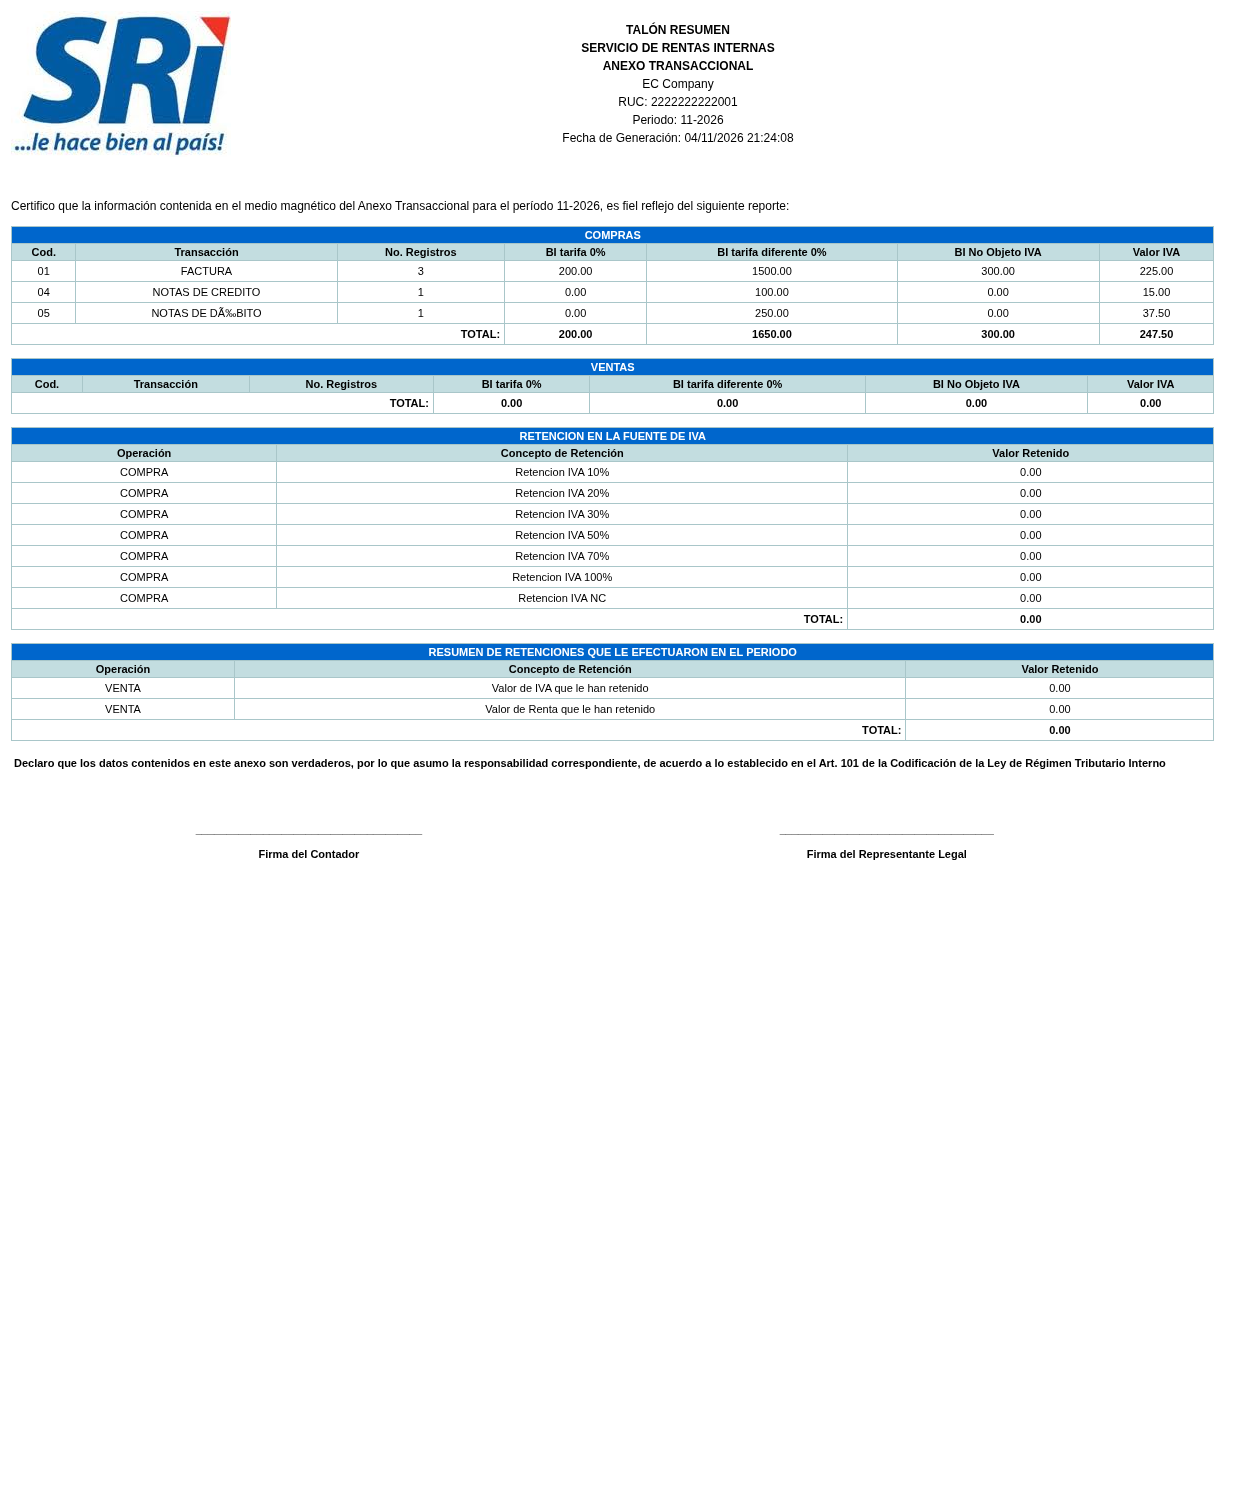
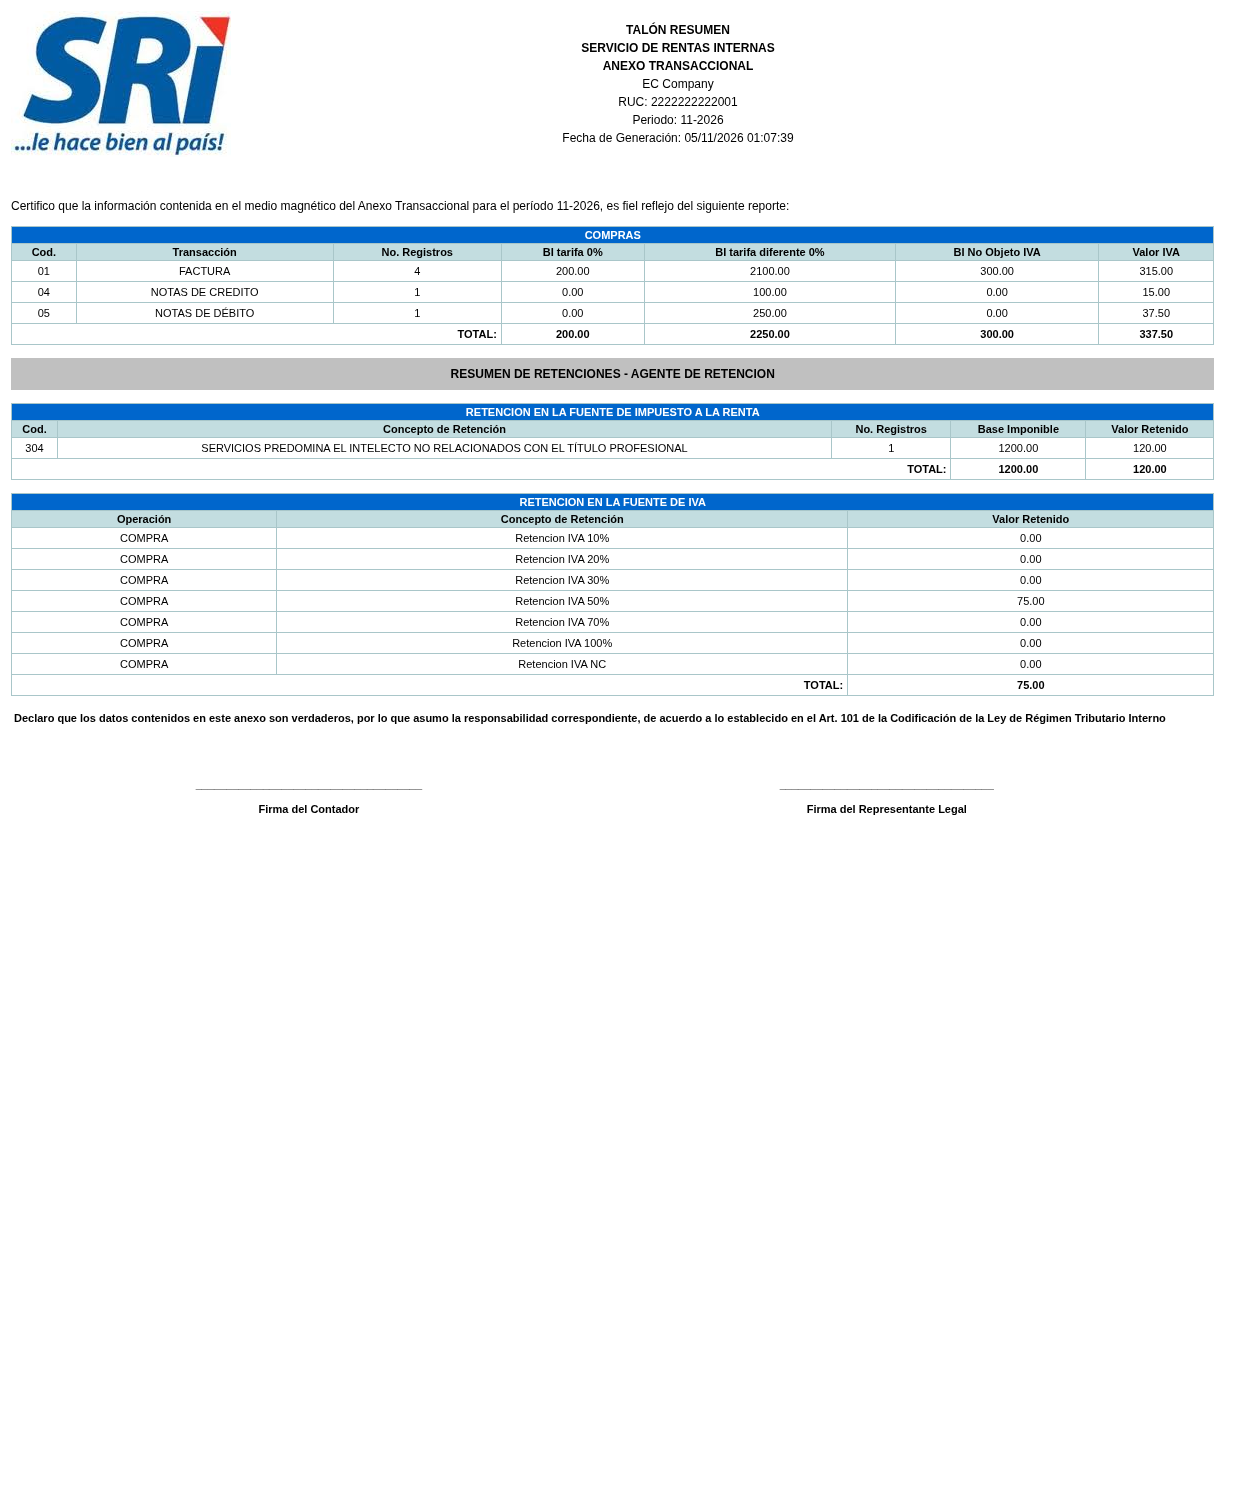
docs(l10n_ec_ats): refresh the engine evidence with withholdings and suppliers
The talón in `USAGE` described a month of five purchases. The demo month now also
carries a foreign supplier on a passport, a credit note, a debit note, one
invoice with ICE, and one invoice with a withholding performed on it — so the
evidence is refreshed with what the SRI's own engine says about that month:

    01 Factura          4   200.00  2100.00  300.00  315.00
    04 Nota de crédito  1     0.00   100.00    0.00   15.00
    05 Nota de débito   1     0.00   250.00    0.00   37.50
    Total               6   200.00  2450.00  300.00  367.50

and the withholdings in the same summary — renta `304` on a base of 1200.00
retaining **120.00**, and IVA at `50%` retaining **75.00** — which are the same
figures the file carries in `air/detalleAir` and `valRetServ50`, and the reason
the row now also carries `estabRetencion1`…`fechaEmiRet1`.

The section states both limits of that pass: the engine accepts the file while
the module still warns on every 15% line because `Tabla 12` ends at the 12% era,
and the submission leaves out the `ventas` block because the engine cannot
summarise a physical-emission sale at all. Neither is worked around: the module
keeps emitting `F` and both defects are recorded in `ROADMAP.md`.

Changed region(s): [[0.0, 0.1533, 0.9984, 0.5827], [0.312, 0.1533, 0.3432, 0.184]]

diff --git a/l10n_ec_ats/static/description/index.html b/l10n_ec_ats/static/description/index.html
@@ -1476,10 +1476,11 @@ fields plus:</p>
 <h3><a class="toc-backref" href="#toc-entry-32">Evidence: the SRI’s own engine accepts the file</a></h3>
 <p>Grammar is the weakest of the three layers. The strongest evidence
 available without a DIMM installation is the SRI’s own validator: this
-month’s <tt class="docutils literal">AT112026.xml</tt> — five purchase documents, one of them a credit
-note and one a debit note, one carrying ICE — was submitted to the SRI
-ATS engine and came back <strong>accepted</strong>, with the engine’s own summary of
-the period:</p>
+month’s <tt class="docutils literal">AT112026.xml</tt> — four purchase invoices, one of them a foreign
+supplier on a passport, a credit note, a debit note, one invoice
+carrying ICE, and one invoice carrying a withholding performed on it —
+was submitted to the SRI ATS engine and came back <strong>accepted</strong>, with the
+engine’s own summary of the period:</p>
 <table border="1" class="docutils">
 <colgroup>
 <col width="15%" />
@@ -1504,11 +1505,11 @@ objeto</th>
 <tbody valign="top">
 <tr><td>01
 Factura</td>
-<td>3</td>
+<td>4</td>
 <td>200.00</td>
-<td>1500.00</td>
+<td>2100.00</td>
 <td>300.00</td>
-<td>225.00</td>
+<td>315.00</td>
 </tr>
 <tr><td>04 Nota
 de
@@ -1528,27 +1529,76 @@ de débito</td>
 <td>37.50</td>
 </tr>
 <tr><td><strong>Total</strong></td>
-<td><strong>5</strong></td>
+<td><strong>6</strong></td>
 <td><strong>200.00</strong></td>
-<td><strong>1650.00</strong></td>
+<td><strong>2450.00</strong></td>
 <td><strong>300.00</strong></td>
-<td><strong>247.50</strong></td>
+<td><strong>367.50</strong></td>
+</tr>
+</tbody>
+</table>
+<p>And, in the same summary, the withholdings the module reports — the part
+that makes the row identifiable rather than just a pair of amounts:</p>
+<table border="1" class="docutils">
+<colgroup>
+<col width="17%" />
+<col width="35%" />
+<col width="17%" />
+<col width="14%" />
+<col width="18%" />
+</colgroup>
+<thead valign="bottom">
+<tr><th class="head">Retención</th>
+<th class="head">Concepto</th>
+<th class="head">Registros</th>
+<th class="head">Base</th>
+<th class="head">Retenido</th>
+</tr>
+</thead>
+<tbody valign="top">
+<tr><td>Renta</td>
+<td><tt class="docutils literal">304</tt> servicios
+donde predomina el
+intelecto</td>
+<td>1</td>
+<td>1200.00</td>
+<td><strong>120.00</strong></td>
+</tr>
+<tr><td>IVA</td>
+<td><tt class="docutils literal">50%</tt></td>
+<td>—</td>
+<td>—</td>
+<td><strong>75.00</strong></td>
 </tr>
 </tbody>
 </table>
 <p><img alt="DIMM talón of a generated month" src="https://raw.githubusercontent.com/OCA/l10n-ecuador/19.0/l10n_ec_ats/static/description/ats-dimm-talon.png" /></p>
-<p>That table is the point of the three layers: those bases are what the
-collector resolved per <tt class="docutils literal">Tabla 12</tt>, what the builder wrote in
-<tt class="docutils literal">ats.xsd</tt> order, and what the engine read back. The engine is not
-shipped with this module — it is an independent service — so this is
-evidence about the file, not a feature of the addon.
-<tt class="docutils literal">readme/CONFIGURE.md</tt> does not mention it for the same reason: the
-addon does not depend on it.</p>
-<p>Note what the same run also proves <strong>negative</strong>: the engine accepts the
-file while the module still reports a non-blocking <tt class="docutils literal">compras.monto_iva</tt>
-warning for every 15% line (see <tt class="docutils literal">ROADMAP.md</tt>), because the shipped
-<tt class="docutils literal">Tabla 12</tt> ends at the 12% era. A pass from the engine is not a
-verdict on the catalog.</p>
+<p>Those figures are what the collector resolved (per <tt class="docutils literal">Tabla 12</tt>,
+<tt class="docutils literal">Tabla 11</tt> and <tt class="docutils literal">Tabla 3.10</tt>), what the builder wrote in <tt class="docutils literal">ats.xsd</tt>
+order, and what the engine read back: <tt class="docutils literal">air/detalleAir</tt> carries
+<tt class="docutils literal">codRetAir 304</tt>, <tt class="docutils literal">baseImpAir 1200.00</tt>, <tt class="docutils literal">porcentajeAir 10.00</tt>,
+<tt class="docutils literal">valRetAir 120.00</tt>; the IVA share lands in <tt class="docutils literal">valRetServ50</tt> as
+<tt class="docutils literal">75.00</tt>; and the row also carries the five
+<tt class="docutils literal">estabRetencion1</tt>…<tt class="docutils literal">fechaEmiRet1</tt> elements that point at the
+withholding document itself.</p>
+<p>The engine is not shipped with this module — it is an independent
+service — so this is evidence about the file, not a feature of the
+addon. <tt class="docutils literal">readme/CONFIGURE.md</tt> does not mention it for the same reason:
+the addon does not depend on it.</p>
+<p>Two things this run also proves, both about what a pass does <strong>not</strong>
+mean:</p>
+<ul class="simple">
+<li>the engine accepts the file while the module still reports a
+non-blocking <tt class="docutils literal">compras.monto_iva</tt> warning for every 15% line, because
+the shipped <tt class="docutils literal">Tabla 12</tt> ends at the 12% era (see <tt class="docutils literal">ROADMAP.md</tt>). A
+pass from the engine is not a verdict on the catalog;</li>
+<li>the submission leaves out the <tt class="docutils literal">ventas</tt> block, because the engine
+cannot summarise a physical-emission sale (<tt class="docutils literal">tipoEmision = F</tt>) at
+all: it throws an unhandled <tt class="docutils literal">NullPointerException</tt> building the
+talón (recorded in <tt class="docutils literal">ROADMAP.md</tt>). The module keeps emitting <tt class="docutils literal">F</tt> —
+that is what a sale from a journal without documents is — and the
+defect is reported rather than worked around.</li>
+</ul>
 </div>
 </div>
 <div class="section" id="known-issues-roadmap">

diff --git a/l10n_ec_ats/README.rst b/l10n_ec_ats/README.rst
@@ -969,16 +969,17 @@ Evidence: the SRI's own engine accepts the file
 
 Grammar is the weakest of the three layers. The strongest evidence
 available without a DIMM installation is the SRI's own validator: this
-month's ``AT112026.xml`` — five purchase documents, one of them a credit
-note and one a debit note, one carrying ICE — was submitted to the SRI
-ATS engine and came back **accepted**, with the engine's own summary of
-the period:
+month's ``AT112026.xml`` — four purchase invoices, one of them a foreign
+supplier on a passport, a credit note, a debit note, one invoice
+carrying ICE, and one invoice carrying a withholding performed on it —
+was submitted to the SRI ATS engine and came back **accepted**, with the
+engine's own summary of the period:
 
 +-----------+-----------+------------+-------------+------------+------------+
 | Concept   | Registros | BI tarifa  | BI tarifa ≠ | BI no      | Valor IVA  |
 |           |           | 0%         | 0%          | objeto     |            |
 +===========+===========+============+=============+============+============+
-| 01        | 3         | 200.00     | 1500.00     | 300.00     | 225.00     |
+| 01        | 4         | 200.00     | 2100.00     | 300.00     | 315.00     |
 | Factura   |           |            |             |            |            |
 +-----------+-----------+------------+-------------+------------+------------+
 | 04 Nota   | 1         | 0.00       | 100.00      | 0.00       | 15.00      |
@@ -988,24 +989,51 @@ the period:
 | 05 Nota   | 1         | 0.00       | 250.00      | 0.00       | 37.50      |
 | de débito |           |            |             |            |            |
 +-----------+-----------+------------+-------------+------------+------------+
-| **Total** | **5**     | **200.00** | **1650.00** | **300.00** | **247.50** |
+| **Total** | **6**     | **200.00** | **2450.00** | **300.00** | **367.50** |
 +-----------+-----------+------------+-------------+------------+------------+
+
+And, in the same summary, the withholdings the module reports — the part
+that makes the row identifiable rather than just a pair of amounts:
+
++-----------+-----------------------+-----------+---------+------------+
+| Retención | Concepto              | Registros | Base    | Retenido   |
++===========+=======================+===========+=========+============+
+| Renta     | ``304`` servicios     | 1         | 1200.00 | **120.00** |
+|           | donde predomina el    |           |         |            |
+|           | intelecto             |           |         |            |
++-----------+-----------------------+-----------+---------+------------+
+| IVA       | ``50%``               | —         | —       | **75.00**  |
++-----------+-----------------------+-----------+---------+------------+
 
 |DIMM talón of a generated month|
 
-That table is the point of the three layers: those bases are what the
-collector resolved per ``Tabla 12``, what the builder wrote in
-``ats.xsd`` order, and what the engine read back. The engine is not
-shipped with this module — it is an independent service — so this is
-evidence about the file, not a feature of the addon.
-``readme/CONFIGURE.md`` does not mention it for the same reason: the
-addon does not depend on it.
+Those figures are what the collector resolved (per ``Tabla 12``,
+``Tabla 11`` and ``Tabla 3.10``), what the builder wrote in ``ats.xsd``
+order, and what the engine read back: ``air/detalleAir`` carries
+``codRetAir 304``, ``baseImpAir 1200.00``, ``porcentajeAir 10.00``,
+``valRetAir 120.00``; the IVA share lands in ``valRetServ50`` as
+``75.00``; and the row also carries the five
+``estabRetencion1``\ …\ ``fechaEmiRet1`` elements that point at the
+withholding document itself.
 
-Note what the same run also proves **negative**: the engine accepts the
-file while the module still reports a non-blocking ``compras.monto_iva``
-warning for every 15% line (see ``ROADMAP.md``), because the shipped
-``Tabla 12`` ends at the 12% era. A pass from the engine is not a
-verdict on the catalog.
+The engine is not shipped with this module — it is an independent
+service — so this is evidence about the file, not a feature of the
+addon. ``readme/CONFIGURE.md`` does not mention it for the same reason:
+the addon does not depend on it.
+
+Two things this run also proves, both about what a pass does **not**
+mean:
+
+- the engine accepts the file while the module still reports a
+  non-blocking ``compras.monto_iva`` warning for every 15% line, because
+  the shipped ``Tabla 12`` ends at the 12% era (see ``ROADMAP.md``). A
+  pass from the engine is not a verdict on the catalog;
+- the submission leaves out the ``ventas`` block, because the engine
+  cannot summarise a physical-emission sale (``tipoEmision = F``) at
+  all: it throws an unhandled ``NullPointerException`` building the
+  talón (recorded in ``ROADMAP.md``). The module keeps emitting ``F`` —
+  that is what a sale from a journal without documents is — and the
+  defect is reported rather than worked around.
 
 .. |ATS wizard| image:: https://raw.githubusercontent.com/OCA/l10n-ecuador/19.0/l10n_ec_ats/static/description/ats-generate-wizard.png
 .. |DIMM talón of a generated month| image:: https://raw.githubusercontent.com/OCA/l10n-ecuador/19.0/l10n_ec_ats/static/description/ats-dimm-talon.png

diff --git a/l10n_ec_ats/readme/USAGE.md b/l10n_ec_ats/readme/USAGE.md
@@ -195,27 +195,47 @@ Models that inherit the mixin gain `date_start` and `date_end` fields plus:
 
 Grammar is the weakest of the three layers. The strongest evidence available
 without a DIMM installation is the SRI's own validator: this month's
-`AT112026.xml` — five purchase documents, one of them a credit note and one a
-debit note, one carrying ICE — was submitted to the SRI ATS engine and came back
-**accepted**, with the engine's own summary of the period:
+`AT112026.xml` — four purchase invoices, one of them a foreign supplier on a
+passport, a credit note, a debit note, one invoice carrying ICE, and one invoice
+carrying a withholding performed on it — was submitted to the SRI ATS engine and
+came back **accepted**, with the engine's own summary of the period:
 
 | Concept | Registros | BI tarifa 0% | BI tarifa ≠ 0% | BI no objeto | Valor IVA |
 | --- | --- | --- | --- | --- | --- |
-| 01 Factura | 3 | 200.00 | 1500.00 | 300.00 | 225.00 |
+| 01 Factura | 4 | 200.00 | 2100.00 | 300.00 | 315.00 |
 | 04 Nota de crédito | 1 | 0.00 | 100.00 | 0.00 | 15.00 |
 | 05 Nota de débito | 1 | 0.00 | 250.00 | 0.00 | 37.50 |
-| **Total** | **5** | **200.00** | **1650.00** | **300.00** | **247.50** |
+| **Total** | **6** | **200.00** | **2450.00** | **300.00** | **367.50** |
+
+And, in the same summary, the withholdings the module reports — the part that
+makes the row identifiable rather than just a pair of amounts:
+
+| Retención | Concepto | Registros | Base | Retenido |
+| --- | --- | --- | --- | --- |
+| Renta | `304` servicios donde predomina el intelecto | 1 | 1200.00 | **120.00** |
+| IVA | `50%` | — | — | **75.00** |
 
 ![DIMM talón of a generated month](../static/description/ats-dimm-talon.png)
 
-That table is the point of the three layers: those bases are what the collector
-resolved per `Tabla 12`, what the builder wrote in `ats.xsd` order, and what the
-engine read back. The engine is not shipped with this module — it is an
-independent service — so this is evidence about the file, not a feature of the
-addon. `readme/CONFIGURE.md` does not mention it for the same reason: the addon
-does not depend on it.
+Those figures are what the collector resolved (per `Tabla 12`, `Tabla 11` and
+`Tabla 3.10`), what the builder wrote in `ats.xsd` order, and what the engine read
+back: `air/detalleAir` carries `codRetAir 304`, `baseImpAir 1200.00`,
+`porcentajeAir 10.00`, `valRetAir 120.00`; the IVA share lands in `valRetServ50`
+as `75.00`; and the row also carries the five `estabRetencion1`…`fechaEmiRet1`
+elements that point at the withholding document itself.
 
-Note what the same run also proves **negative**: the engine accepts the file
-while the module still reports a non-blocking `compras.monto_iva` warning for
-every 15% line (see `ROADMAP.md`), because the shipped `Tabla 12` ends at the 12%
-era. A pass from the engine is not a verdict on the catalog.
+The engine is not shipped with this module — it is an independent service — so
+this is evidence about the file, not a feature of the addon. `readme/CONFIGURE.md`
+does not mention it for the same reason: the addon does not depend on it.
+
+Two things this run also proves, both about what a pass does **not** mean:
+
+- the engine accepts the file while the module still reports a non-blocking
+  `compras.monto_iva` warning for every 15% line, because the shipped `Tabla 12`
+  ends at the 12% era (see `ROADMAP.md`). A pass from the engine is not a verdict
+  on the catalog;
+- the submission leaves out the `ventas` block, because the engine cannot
+  summarise a physical-emission sale (`tipoEmision = F`) at all: it throws an
+  unhandled `NullPointerException` building the talón (recorded in `ROADMAP.md`).
+  The module keeps emitting `F` — that is what a sale from a journal without
+  documents is — and the defect is reported rather than worked around.
